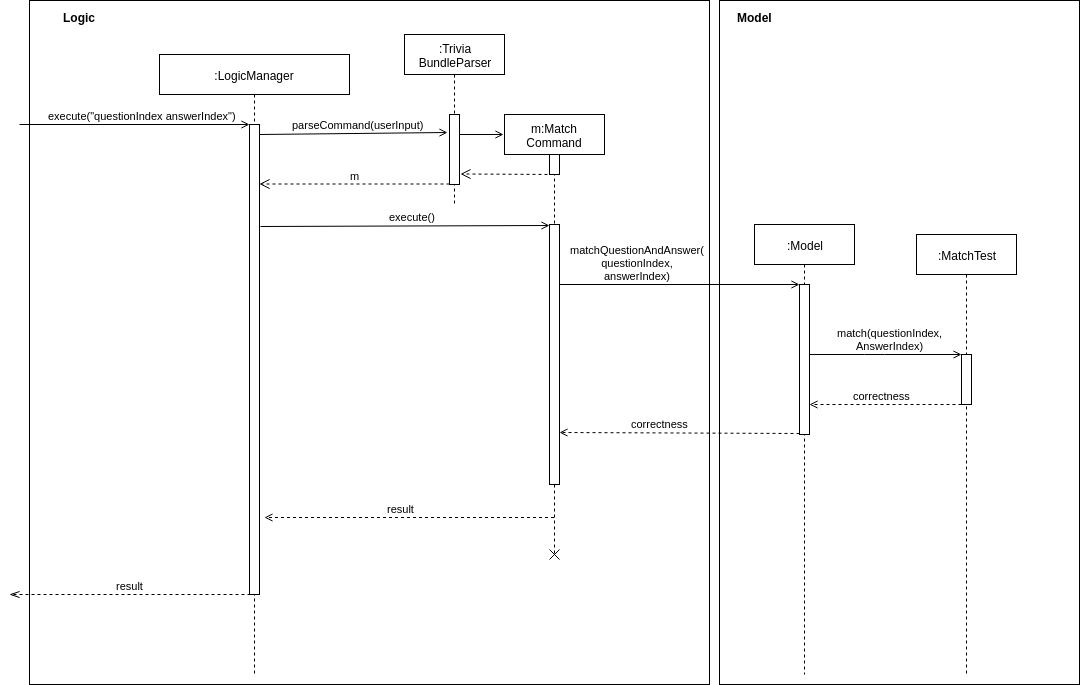
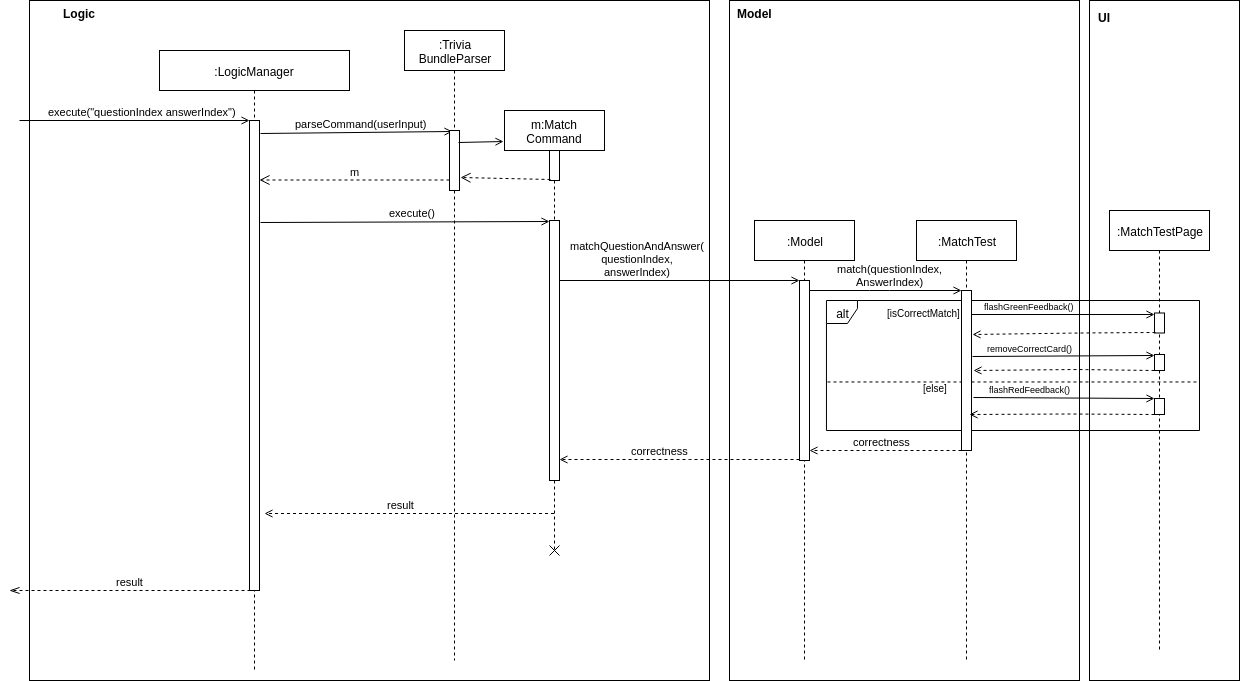
Rebuild pages at 950d08557f40919af889d48466e7858c2183462e

diff --git a/DeveloperGuide.html b/DeveloperGuide.html
@@ -927,7 +927,7 @@ from <code>TriviaTest</code> which has the functionality of storing the necessar
 </ul>
 </div>
 <div class="paragraph">
-<p>These operations are exposed in the <code>Model</code> interface as <code>Model#startTriviaTest()</code>, <code>Model#stopTriviaTest()</code> and <code>Model#MatchCards</code> respectively.</p>
+<p>These operations are exposed in the <code>Model</code> interface as <code>Model#startTriviaTest()</code>, <code>Model#stopTriviaTest()</code> and <code>Model#MatchQuestionAndAnswer</code> respectively.</p>
 </div>
 <div class="paragraph">
 <p>The following activity diagram shows the complete lifecycle of a matching test.</p>
@@ -944,7 +944,7 @@ from <code>TriviaTest</code> which has the functionality of storing the necessar
 <p>Step 1. The user enter the <code>testM</code> command and a new <code>MatchingTestCommand</code> will be created.</p>
 </div>
 <div class="paragraph">
-<p>Step 2. The <code>MatchingTestCommand</code> will be executed and a new MatchTest will be created as shown in the below Sequence diagram.</p>
+<p>Step 2. The <code>MatchingTestCommand</code> will be executed and a new MatchTest Object will be created as shown in the below Sequence diagram.</p>
 </div>
 <div class="imageblock">
 <div class="content">
@@ -973,26 +973,56 @@ from <code>TriviaTest</code> which has the functionality of storing the necessar
 </div>
 </div>
 <div class="paragraph">
-<p>Step 5. Suppose it is correct, the System will remove the matched question and answer from the Ui.</p>
+<p>Step 5. If there are still existing unmatched question and answers, the System will go back to step 3.</p>
 </div>
 <div class="paragraph">
-<p>Step 6. If there are still existing unmatched question and answers, the System will go back to step 3.</p>
+<p>Step 6. After all the question and answers are matched, the System will store the results on the hard disk and display the test&#8217;s result.</p>
 </div>
 <div class="paragraph">
-<p>Step 7. After all the question and answers are matched, the System will display the results.</p>
-</div>
-<div class="paragraph">
-<p>Step 8. At this stage, the System will await <code>exit</code> command from the user so that user can be taken back to the home page.</p>
+<p>Step 7. At this stage, the System will await <code>exit</code> command from the user so that user can be taken back to the home page.</p>
 </div>
 </div>
 <div class="sect3">
 <h4 id="design-considerations-3"><a class="link" href="#design-considerations-3">3.3.2. Design Considerations</a></h4>
 <div class="sect4">
+<h5 id="the-static-display-indexes-of-the-code-listview-code-for-question-and-answer"><a class="link" href="#the-static-display-indexes-of-the-code-listview-code-for-question-and-answer">The static display indexes of the <code>ListView</code> for question and answer</a></h5>
+<div class="ulist">
+<ul>
+<li>
+<p><strong>Alternative 1 (current choice):</strong> Created new classes namely, <code>IndexedQuestion</code> and <code>IndexedAnswer</code> to uniquely identify the cells in <code>ListView</code>.</p>
+<div class="ulist">
+<ul>
+<li>
+<p>Pros: Finding the exact question and answer is easy as what the user see is a representative of the id that identifies the question/answer.</p>
+</li>
+<li>
+<p>Cons: Currently, the classes created are for the sole of having static display indexes during <code>MatchTest</code>.</p>
+</li>
+</ul>
+</div>
+</li>
+<li>
+<p><strong>Alternative 2:</strong> Create a <code>List</code> of mapping that maps the actual index to the display index of the question and answer.</p>
+<div class="ulist">
+<ul>
+<li>
+<p>Pros: The implementation details will be contained within <code>MatchTest</code>.</p>
+</li>
+<li>
+<p>Cons: Additional work is require to maintain the <code>List</code> data structure, to ensure that it is updated every time a question or answer is removed.</p>
+</li>
+</ul>
+</div>
+</li>
+</ul>
+</div>
+</div>
+<div class="sect4">
 <h5 id="the-polymorphism-of-triviatest"><a class="link" href="#the-polymorphism-of-triviatest">The polymorphism of TriviaTest</a></h5>
 <div class="ulist">
 <ul>
 <li>
-<p><strong>Alternative 1 (current choice):</strong> Uses <code>TriviaTest</code>, <code>CloseTriviaTestViewEvent</code> and <code>ShowTriviaTestViewEvent</code> that accepts all kinds of TriviaTest, not just matching test.</p>
+<p><strong>Alternative 1 (current choice):</strong> Uses <code>TriviaTest</code>, <code>TriviaResultStorage</code> to accommodate the different testing feature in 3VIA.</p>
 <div class="ulist">
 <ul>
 <li>
@@ -1008,7 +1038,7 @@ from <code>TriviaTest</code> which has the functionality of storing the necessar
 </div>
 </li>
 <li>
-<p><strong>Alternative 1 (current choice):</strong> Implement each kinds of test as a standalone test with its own standalone class and event handler.</p>
+<p><strong>Alternative 2:</strong> Implement each kinds of test as a standalone test with its own standalone class and event handler.</p>
 <div class="ulist">
 <ul>
 <li>
@@ -2115,4 +2145,4 @@ Expected: Similar to previous.</p>
 </div>
 </div>
 </div>
-</div></div><div id="footer"><div class="container"><div id="footer-text">Last updated 2018-10-23 14:57:01 UTC</div></div></div></body></html>
+</div></div><div id="footer"><div class="container"><div id="footer-text">Last updated 2018-10-23 15:14:35 UTC</div></div></div></body></html>

diff --git a/HelpWindow.html b/HelpWindow.html
@@ -500,7 +500,7 @@ Format: <code>exit</code></p>
 <div class="paragraph">
 <p>Start a test of matching cards of a specified topic. In a test of matching cards, all the questions and answers in that topic
 will be displayed. The user will then have to match the correct question and answer together.<br>
-Format: <code>testM t/TOPIC</code></p>
+Format: <code>testM TOPIC</code></p>
 </div>
 <div class="paragraph">
 <p>The following commands can only be used during a <code>Matching Test</code>.</p>
@@ -664,6 +664,9 @@ e.g.<code>select 2</code></p>
 <p><strong>Test</strong> : <code>test TOPIC TIMELIMIT_IN_SECONDS</code></p>
 </li>
 <li>
+<p><strong>Matching Test</strong> : <code>testM TOPIC</code></p>
+</li>
+<li>
 <p><strong>Correctness of answer</strong> : <code>c</code> (correct) OR <code>x</code> (wrong)</p>
 </li>
 <li>
@@ -675,4 +678,4 @@ e.g.<code>select 2</code></p>
 </ul>
 </div>
 </div>
-</div></div><div id="footer"><div class="container"><div id="footer-text">Last updated 2018-10-23 14:57:01 UTC</div></div></div></body></html>
+</div></div><div id="footer"><div class="container"><div id="footer-text">Last updated 2018-10-23 15:14:35 UTC</div></div></div></body></html>

diff --git a/UserGuide.html b/UserGuide.html
@@ -500,7 +500,7 @@ Format: <code>exit</code></p>
 <div class="paragraph">
 <p>Start a test of matching cards of a specified topic. In a test of matching cards, all the questions and answers in that topic
 will be displayed. The user will then have to match the correct question and answer together.<br>
-Format: <code>testM t/TOPIC</code></p>
+Format: <code>testM TOPIC</code></p>
 </div>
 <div class="paragraph">
 <p>The following commands can only be used during a <code>Matching Test</code>.</p>
@@ -664,6 +664,9 @@ e.g.<code>select 2</code></p>
 <p><strong>Test</strong> : <code>test TOPIC TIMELIMIT_IN_SECONDS</code></p>
 </li>
 <li>
+<p><strong>Matching Test</strong> : <code>testM TOPIC</code></p>
+</li>
+<li>
 <p><strong>Correctness of answer</strong> : <code>c</code> (correct) OR <code>x</code> (wrong)</p>
 </li>
 <li>
@@ -675,4 +678,4 @@ e.g.<code>select 2</code></p>
 </ul>
 </div>
 </div>
-</div></div><div id="footer"><div class="container"><div id="footer-text">Last updated 2018-10-23 14:57:01 UTC</div></div></div></body></html>
+</div></div><div id="footer"><div class="container"><div id="footer-text">Last updated 2018-10-23 15:14:35 UTC</div></div></div></body></html>

diff --git a/ContactUs.html b/ContactUs.html
@@ -10,4 +10,4 @@ noticed bugs or have suggestions on how to improve.</p>
 <p><strong>Contributing</strong> : We welcome pull requests. Follow the process described <a href="https://github.com/oss-generic/process">here</a></p>
 </li>
 </ul>
-</div></div><div id="footer"><div class="container"><div id="footer-text">Last updated 2018-10-23 14:57:01 UTC</div></div></div></body></html>
+</div></div><div id="footer"><div class="container"><div id="footer-text">Last updated 2018-10-23 15:14:35 UTC</div></div></div></body></html>

diff --git a/team/chuajunhui.html b/team/chuajunhui.html
@@ -461,4 +461,4 @@ If the <code>currentStatePointer</code> is at index <code>addressBookStateList.s
 <p><em>{Optionally, you may include other projects in your portfolio.}</em></p>
 </div>
 </div>
-</div></div><div id="footer"><div class="container"><div id="footer-text">Last updated 2018-10-23 14:57:01 UTC</div></div></div></body></html>
+</div></div><div id="footer"><div class="container"><div id="footer-text">Last updated 2018-10-23 15:14:35 UTC</div></div></div></body></html>

diff --git a/team/hozongsien.html b/team/hozongsien.html
@@ -461,4 +461,4 @@ If the <code>currentStatePointer</code> is at index <code>addressBookStateList.s
 <p><em>{Optionally, you may include other projects in your portfolio.}</em></p>
 </div>
 </div>
-</div></div><div id="footer"><div class="container"><div id="footer-text">Last updated 2018-10-23 14:57:01 UTC</div></div></div></body></html>
+</div></div><div id="footer"><div class="container"><div id="footer-text">Last updated 2018-10-23 15:14:35 UTC</div></div></div></body></html>

diff --git a/team/kohjunwei.html b/team/kohjunwei.html
@@ -461,4 +461,4 @@ If the <code>currentStatePointer</code> is at index <code>addressBookStateList.s
 <p><em>{Optionally, you may include other projects in your portfolio.}</em></p>
 </div>
 </div>
-</div></div><div id="footer"><div class="container"><div id="footer-text">Last updated 2018-10-23 14:57:01 UTC</div></div></div></body></html>
+</div></div><div id="footer"><div class="container"><div id="footer-text">Last updated 2018-10-23 15:14:35 UTC</div></div></div></body></html>

diff --git a/team/shaniceabigal.html b/team/shaniceabigal.html
@@ -461,4 +461,4 @@ If the <code>currentStatePointer</code> is at index <code>addressBookStateList.s
 <p><em>{Optionally, you may include other projects in your portfolio.}</em></p>
 </div>
 </div>
-</div></div><div id="footer"><div class="container"><div id="footer-text">Last updated 2018-10-23 14:57:01 UTC</div></div></div></body></html>
+</div></div><div id="footer"><div class="container"><div id="footer-text">Last updated 2018-10-23 15:14:35 UTC</div></div></div></body></html>

diff --git a/team/zihengxiu.html b/team/zihengxiu.html
@@ -461,4 +461,4 @@ If the <code>currentStatePointer</code> is at index <code>addressBookStateList.s
 <p><em>{Optionally, you may include other projects in your portfolio.}</em></p>
 </div>
 </div>
-</div></div><div id="footer"><div class="container"><div id="footer-text">Last updated 2018-10-23 14:57:01 UTC</div></div></div></body></html>
+</div></div><div id="footer"><div class="container"><div id="footer-text">Last updated 2018-10-23 15:14:35 UTC</div></div></div></body></html>

diff --git a/UsingGradle.html b/UsingGradle.html
@@ -255,4 +255,4 @@ See <code>build.gradle</code> &#8594; <code>allprojects</code> &#8594; <code>dep
 </ul>
 </div>
 </div>
-</div></div><div id="footer"><div class="container"><div id="footer-text">Last updated 2018-10-23 14:57:01 UTC</div></div></div></body></html>
+</div></div><div id="footer"><div class="container"><div id="footer-text">Last updated 2018-10-23 15:14:35 UTC</div></div></div></body></html>

diff --git a/UsingNetlify.html b/UsingNetlify.html
@@ -123,4 +123,4 @@ The publish directory is the directory in which the built HTML documentation res
 </ol>
 </div>
 </div>
-</div></div><div id="footer"><div class="container"><div id="footer-text">Last updated 2018-10-23 14:57:01 UTC</div></div></div></body></html>
+</div></div><div id="footer"><div class="container"><div id="footer-text">Last updated 2018-10-23 15:14:35 UTC</div></div></div></body></html>

diff --git a/UsingCoveralls.html b/UsingCoveralls.html
@@ -96,4 +96,4 @@ If you have not set up Travis CI, see <a href="UsingTravis.html">UsingTravis.ado
 </ol>
 </div>
 </div>
-</div></div><div id="footer"><div class="container"><div id="footer-text">Last updated 2018-10-23 14:57:01 UTC</div></div></div></body></html>
+</div></div><div id="footer"><div class="container"><div id="footer-text">Last updated 2018-10-23 15:14:35 UTC</div></div></div></body></html>
